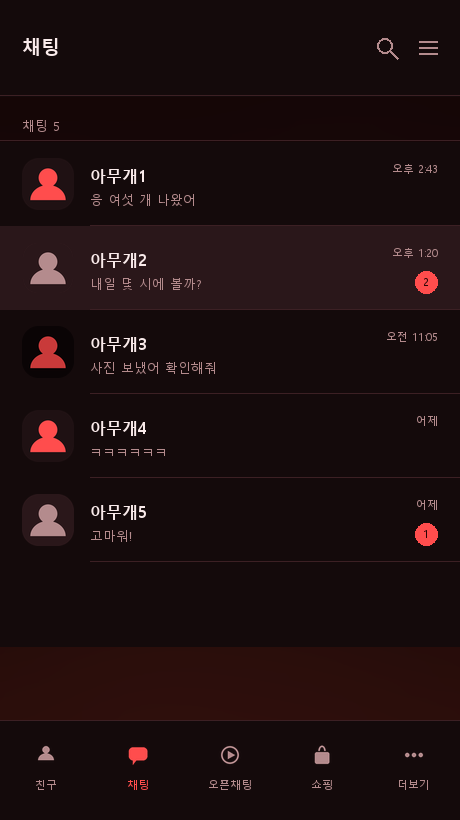
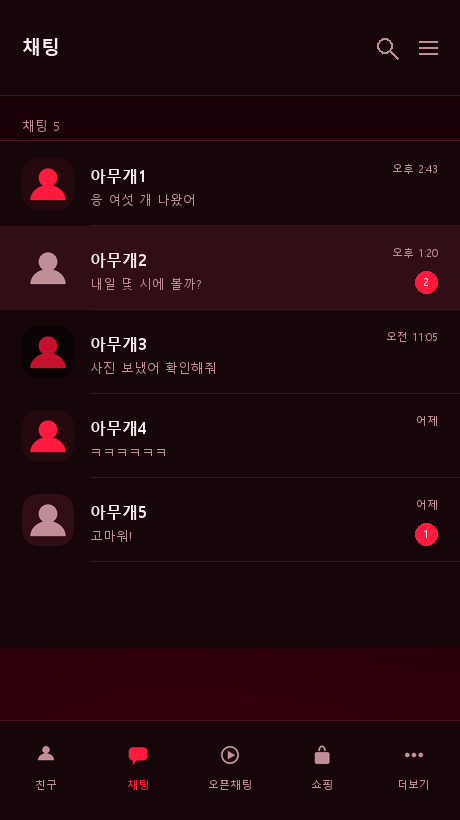
레드를 노을에서 빨강으로 되돌린다
주황 말풍선과 금색 불티가 섞여 있어서 빨강이 아니라 노을로 보였다.
말풍선 네 칸을 전부 빨강 계열로 맞추고 불티도 분홍빨강으로 바꾼다.

바탕에서 갈색기를 뺀다. 붉은색은 초록이 조금만 섞여도 갈색으로 간다 —
#3A0E0C 는 R58 G14 B12 이라 벽돌색이었다. 초록을 0 으로 누르고 파랑을 약간
남겨 자주 쪽으로 기울인다. 글자는 흰 쪽으로 올린다. 순빨강 위의 어두운 글자는
읽히지 않는다.

diff --git a/docs/index.html b/docs/index.html
@@ -217,28 +217,28 @@
 </section>
 <section class="card">
   <h2>레드 기본 <small>red57</small></h2>
-  <div class="chips"><span class="chip" style="background:#140A0B" title="bg"></span><span class="chip" style="background:#0A0405" title="bg_deep"></span><span class="chip" style="background:#1F1113" title="surface"></span><span class="chip" style="background:#FF4D4D" title="accent"></span><span class="chip" style="background:#F9EAEA" title="text"></span></div>
+  <div class="chips"><span class="chip" style="background:#160509" title="bg"></span><span class="chip" style="background:#0B0205" title="bg_deep"></span><span class="chip" style="background:#240A0F" title="surface"></span><span class="chip" style="background:#FF1B3D" title="accent"></span><span class="chip" style="background:#FFECEF" title="text"></span></div>
   <div class="shots"><figure><img src="../assets/preview-red-basic-list.png" alt="레드 기본 채팅 목록"><figcaption>채팅 목록</figcaption></figure><figure><img src="../assets/preview-red-basic-chat.png" alt="레드 기본 채팅방"><figcaption>채팅방</figcaption></figure><figure><img src="../assets/preview-red-basic-passcode.png" alt="레드 기본 잠금화면"><figcaption>잠금화면</figcaption></figure><figure><img src="../assets/preview-red-basic-splash.png" alt="레드 기본 실행화면"><figcaption>실행화면</figcaption></figure></div>
   <p class="dl"><a href="../dist/iOS/red-basic.ktheme">iOS .ktheme</a> &middot;
      <a href="../dist/android/red-basic.apk">Android .apk</a></p>
 </section>
 <section class="card">
   <h2>레드 배경 <small>red58</small></h2>
-  <div class="chips"><span class="chip" style="background:#140A0B" title="bg"></span><span class="chip" style="background:#0A0405" title="bg_deep"></span><span class="chip" style="background:#1F1113" title="surface"></span><span class="chip" style="background:#FF4D4D" title="accent"></span><span class="chip" style="background:#F9EAEA" title="text"></span></div>
+  <div class="chips"><span class="chip" style="background:#160509" title="bg"></span><span class="chip" style="background:#0B0205" title="bg_deep"></span><span class="chip" style="background:#240A0F" title="surface"></span><span class="chip" style="background:#FF1B3D" title="accent"></span><span class="chip" style="background:#FFECEF" title="text"></span></div>
   <div class="shots"><figure><img src="../assets/preview-red-image-list.png" alt="레드 배경 채팅 목록"><figcaption>채팅 목록</figcaption></figure><figure><img src="../assets/preview-red-image-chat.png" alt="레드 배경 채팅방"><figcaption>채팅방</figcaption></figure><figure><img src="../assets/preview-red-image-passcode.png" alt="레드 배경 잠금화면"><figcaption>잠금화면</figcaption></figure><figure><img src="../assets/preview-red-image-splash.png" alt="레드 배경 실행화면"><figcaption>실행화면</figcaption></figure></div>
   <p class="dl"><a href="../dist/iOS/red-image.ktheme">iOS .ktheme</a> &middot;
      <a href="../dist/android/red-image.apk">Android .apk</a></p>
 </section>
 <section class="card">
   <h2>레드 글로우 <small>red59</small></h2>
-  <div class="chips"><span class="chip" style="background:#140A0B" title="bg"></span><span class="chip" style="background:#0A0405" title="bg_deep"></span><span class="chip" style="background:#1F1113" title="surface"></span><span class="chip" style="background:#FF4D4D" title="accent"></span><span class="chip" style="background:#F9EAEA" title="text"></span></div>
+  <div class="chips"><span class="chip" style="background:#160509" title="bg"></span><span class="chip" style="background:#0B0205" title="bg_deep"></span><span class="chip" style="background:#240A0F" title="surface"></span><span class="chip" style="background:#FF1B3D" title="accent"></span><span class="chip" style="background:#FFECEF" title="text"></span></div>
   <div class="shots"><figure><img src="../assets/preview-red-glow-list.png" alt="레드 글로우 채팅 목록"><figcaption>채팅 목록</figcaption></figure><figure><img src="../assets/preview-red-glow-chat.png" alt="레드 글로우 채팅방"><figcaption>채팅방</figcaption></figure><figure><img src="../assets/preview-red-glow-passcode.png" alt="레드 글로우 잠금화면"><figcaption>잠금화면</figcaption></figure><figure><img src="../assets/preview-red-glow-splash.png" alt="레드 글로우 실행화면"><figcaption>실행화면</figcaption></figure></div>
   <p class="dl"><a href="../dist/iOS/red-glow.ktheme">iOS .ktheme</a> &middot;
      <a href="../dist/android/red-glow.apk">Android .apk</a></p>
 </section>
 <section class="card">
   <h2>레드 글로우+배경 <small>red60</small></h2>
-  <div class="chips"><span class="chip" style="background:#140A0B" title="bg"></span><span class="chip" style="background:#0A0405" title="bg_deep"></span><span class="chip" style="background:#1F1113" title="surface"></span><span class="chip" style="background:#FF4D4D" title="accent"></span><span class="chip" style="background:#F9EAEA" title="text"></span></div>
+  <div class="chips"><span class="chip" style="background:#160509" title="bg"></span><span class="chip" style="background:#0B0205" title="bg_deep"></span><span class="chip" style="background:#240A0F" title="surface"></span><span class="chip" style="background:#FF1B3D" title="accent"></span><span class="chip" style="background:#FFECEF" title="text"></span></div>
   <div class="shots"><figure><img src="../assets/preview-red-glow-image-list.png" alt="레드 글로우+배경 채팅 목록"><figcaption>채팅 목록</figcaption></figure><figure><img src="../assets/preview-red-glow-image-chat.png" alt="레드 글로우+배경 채팅방"><figcaption>채팅방</figcaption></figure><figure><img src="../assets/preview-red-glow-image-passcode.png" alt="레드 글로우+배경 잠금화면"><figcaption>잠금화면</figcaption></figure><figure><img src="../assets/preview-red-glow-image-splash.png" alt="레드 글로우+배경 실행화면"><figcaption>실행화면</figcaption></figure></div>
   <p class="dl"><a href="../dist/iOS/red-glow-image.ktheme">iOS .ktheme</a> &middot;
      <a href="../dist/android/red-glow-image.apk">Android .apk</a></p>

diff --git a/tools/themes.py b/tools/themes.py
@@ -516,25 +516,25 @@ THEMES += quartet(
 # 레드 — 네 벌
 THEMES += quartet(
     'red', 57, '레드',
-    dict(bg='#140A0B', bg_deep='#0A0405', surface='#1F1113', pressed='#2A171A',
-         border='#3C2024', text='#F9EAEA', subtext='#B48B8D',
-         accent='#FF4D4D', accent_dim='#C93A3A', on_accent='#2A0505',
-         send=('#E03A3A', '#E03A3A'), send_alt=('#FF8A4D', '#FF8A4D'),
-         recv=('#3A1F24', '#3A1F24'), recv_alt=('#8E2E52', '#8E2E52'),
-         send_text='#2C0606', recv_text='#F6E4E4'),
-    dict(chat_bg=('ember', '#180708', '#3A0E0C',
-                  dict(glow='#FF5A3C', spark='#FFC46B', smoke='#3A2030',
+    dict(bg='#160509', bg_deep='#0B0205', surface='#240A0F', pressed='#310D15',
+         border='#4A121F', text='#FFECEF', subtext='#C08E96',
+         accent='#FF1B3D', accent_dim='#C4122E', on_accent='#FFF2F4',
+         send=('#E60026', '#E60026'), send_alt=('#FF5C7A', '#FF5C7A'),
+         recv=('#3B0B16', '#3B0B16'), recv_alt=('#8E0F2E', '#8E0F2E'),
+         send_text='#FFF2F4', recv_text='#FFE8EC'),
+    dict(chat_bg=('ember', '#1A0207', '#5A0016',
+                  dict(glow='#FF0033', spark='#FF6B85', smoke='#2E0410',
                        count=70, dim=0.30)),
-         main_bg=('ember', '#140607', '#300B0A',
-                  dict(glow='#E84F34', spark='#F0B45F', smoke='#331B2A',
+         main_bg=('ember', '#150106', '#4A0012',
+                  dict(glow='#E60030', spark='#FF5C7A', smoke='#280310',
                        count=50, dim=0.46)),
-         passcode_bg=('ember', '#1E080A', '#4E1310',
-                      dict(glow='#FF6A45', spark='#FFD08A', smoke='#42253A',
+         passcode_bg=('ember', '#22030A', '#75001C',
+                      dict(glow='#FF1B45', spark='#FF8DA0', smoke='#360616',
                            count=110, pool_alpha=150, dim=0.04))),
-    ['짙은 적갈색 바탕. 불꽃·노을빛 말풍선',
-     '어둠 속에서 불티가 떠오르는 배경',
-     '말풍선이 잔불처럼 달아오름',
-     '불티 배경 위에 달아오른 말풍선까지'])
+    ['검붉은 바탕에 새빨간 말풍선 네 칸',
+     '어둠 속에서 붉은 불티가 떠오름',
+     '말풍선이 빨갛게 달아오름',
+     '불티 배경 위에 달아오른 빨강까지'])
 
 # --- 배포 파일 이름 -------------------------------------------------------
 # city21.ktheme 은 뭐가 뭔지 알 수 없다. 계열과 변형이 드러나게 바꾼다.

diff --git a/README.md b/README.md
@@ -62,7 +62,7 @@
 <tr>
 <td align="center"><img src="assets/icon-city-basic.png" width="20" valign="middle"> <b><a href="#user-content-야경">야경</a></b><br><sub>기본 · 배경 · 글로우 · 글로우+배경</sub><br>담백한 남색 바탕. 네온 네 색 말풍선</td>
 <td align="center"><img src="assets/icon-cyber-basic.png" width="20" valign="middle"> <b><a href="#user-content-사이버펑크">사이버펑크</a></b><br><sub>기본 · 배경 · 글로우 · 글로우+배경</sub><br>검붉은 보라 바탕. 마젠타·시안 네온 말풍선</td>
-<td align="center"><img src="assets/icon-red-basic.png" width="20" valign="middle"> <b><a href="#user-content-레드">레드</a></b><br><sub>기본 · 배경 · 글로우 · 글로우+배경</sub><br>짙은 적갈색 바탕. 불꽃·노을빛 말풍선</td>
+<td align="center"><img src="assets/icon-red-basic.png" width="20" valign="middle"> <b><a href="#user-content-레드">레드</a></b><br><sub>기본 · 배경 · 글로우 · 글로우+배경</sub><br>검붉은 바탕에 새빨간 말풍선 네 칸</td>
 </tr>
 </table>
 
@@ -562,30 +562,30 @@
 
 <table>
 <tr>
-<td width="50%" align="center"><img src="assets/preview-red-basic-chat.png" width="200"><br><b>기본</b><br><sub>짙은 적갈색 바탕. 불꽃·노을빛 말풍선</sub><br><a href="https://ruminem.github.io/kakaotalk-theme/docs/share.html?f=red-basic.ktheme">iOS</a> · <a href="https://github.com/Ruminem/kakaotalk-theme/releases/latest/download/red-basic.apk">Android</a></td>
-<td width="50%" align="center"><img src="assets/preview-red-image-chat.png" width="200"><br><b>배경</b><br><sub>어둠 속에서 불티가 떠오르는 배경</sub><br><a href="https://ruminem.github.io/kakaotalk-theme/docs/share.html?f=red-image.ktheme">iOS</a> · <a href="https://github.com/Ruminem/kakaotalk-theme/releases/latest/download/red-image.apk">Android</a></td>
+<td width="50%" align="center"><img src="assets/preview-red-basic-chat.png" width="200"><br><b>기본</b><br><sub>검붉은 바탕에 새빨간 말풍선 네 칸</sub><br><a href="https://ruminem.github.io/kakaotalk-theme/docs/share.html?f=red-basic.ktheme">iOS</a> · <a href="https://github.com/Ruminem/kakaotalk-theme/releases/latest/download/red-basic.apk">Android</a></td>
+<td width="50%" align="center"><img src="assets/preview-red-image-chat.png" width="200"><br><b>배경</b><br><sub>어둠 속에서 붉은 불티가 떠오름</sub><br><a href="https://ruminem.github.io/kakaotalk-theme/docs/share.html?f=red-image.ktheme">iOS</a> · <a href="https://github.com/Ruminem/kakaotalk-theme/releases/latest/download/red-image.apk">Android</a></td>
 </tr>
 <tr>
-<td width="50%" align="center"><img src="assets/preview-red-glow-chat.png" width="200"><br><b>글로우</b><br><sub>말풍선이 잔불처럼 달아오름</sub><br><a href="https://ruminem.github.io/kakaotalk-theme/docs/share.html?f=red-glow.ktheme">iOS</a> · <a href="https://github.com/Ruminem/kakaotalk-theme/releases/latest/download/red-glow.apk">Android</a></td>
-<td width="50%" align="center"><img src="assets/preview-red-glow-image-chat.png" width="200"><br><b>글로우+배경</b><br><sub>불티 배경 위에 달아오른 말풍선까지</sub><br><a href="https://ruminem.github.io/kakaotalk-theme/docs/share.html?f=red-glow-image.ktheme">iOS</a> · <a href="https://github.com/Ruminem/kakaotalk-theme/releases/latest/download/red-glow-image.apk">Android</a></td>
+<td width="50%" align="center"><img src="assets/preview-red-glow-chat.png" width="200"><br><b>글로우</b><br><sub>말풍선이 빨갛게 달아오름</sub><br><a href="https://ruminem.github.io/kakaotalk-theme/docs/share.html?f=red-glow.ktheme">iOS</a> · <a href="https://github.com/Ruminem/kakaotalk-theme/releases/latest/download/red-glow.apk">Android</a></td>
+<td width="50%" align="center"><img src="assets/preview-red-glow-image-chat.png" width="200"><br><b>글로우+배경</b><br><sub>불티 배경 위에 달아오른 빨강까지</sub><br><a href="https://ruminem.github.io/kakaotalk-theme/docs/share.html?f=red-glow-image.ktheme">iOS</a> · <a href="https://github.com/Ruminem/kakaotalk-theme/releases/latest/download/red-glow-image.apk">Android</a></td>
 </tr>
 </table>
 
 <details><summary>화면 더 보기 (목록 · 잠금화면 · 실행화면)</summary>
 
-**기본** — 짙은 적갈색 바탕. 불꽃·노을빛 말풍선
+**기본** — 검붉은 바탕에 새빨간 말풍선 네 칸
 
 <img src="assets/preview-red-basic-list.png" width="180"> <img src="assets/preview-red-basic-passcode.png" width="180"> <img src="assets/preview-red-basic-splash.png" width="180">
 
-**배경** — 어둠 속에서 불티가 떠오르는 배경
+**배경** — 어둠 속에서 붉은 불티가 떠오름
 
 <img src="assets/preview-red-image-list.png" width="180"> <img src="assets/preview-red-image-passcode.png" width="180"> <img src="assets/preview-red-image-splash.png" width="180">
 
-**글로우** — 말풍선이 잔불처럼 달아오름
+**글로우** — 말풍선이 빨갛게 달아오름
 
 <img src="assets/preview-red-glow-list.png" width="180"> <img src="assets/preview-red-glow-passcode.png" width="180"> <img src="assets/preview-red-glow-splash.png" width="180">
 
-**글로우+배경** — 불티 배경 위에 달아오른 말풍선까지
+**글로우+배경** — 불티 배경 위에 달아오른 빨강까지
 
 <img src="assets/preview-red-glow-image-list.png" width="180"> <img src="assets/preview-red-glow-image-passcode.png" width="180"> <img src="assets/preview-red-glow-image-splash.png" width="180">
 
